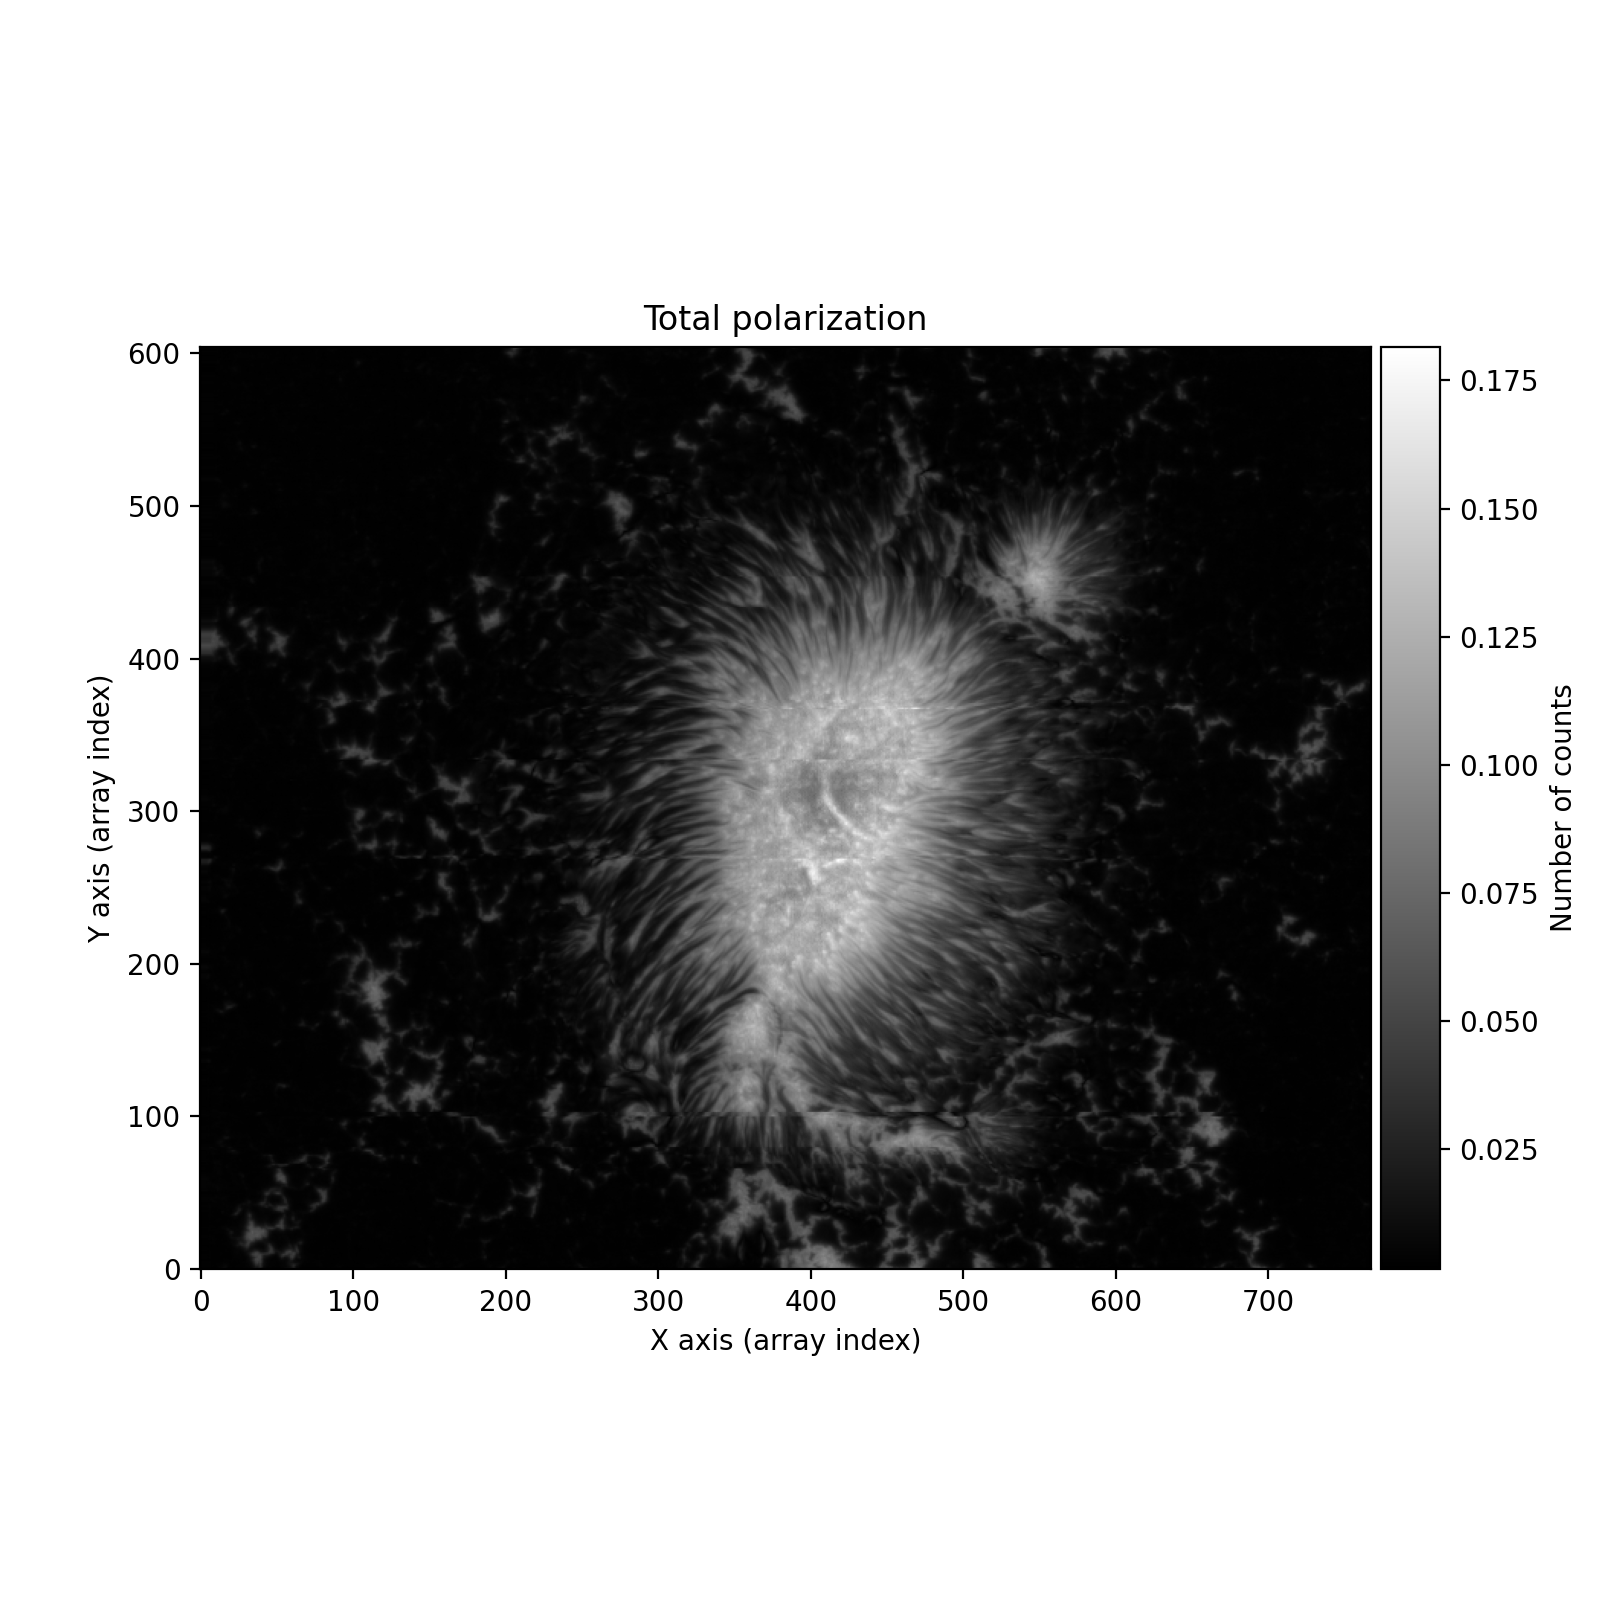
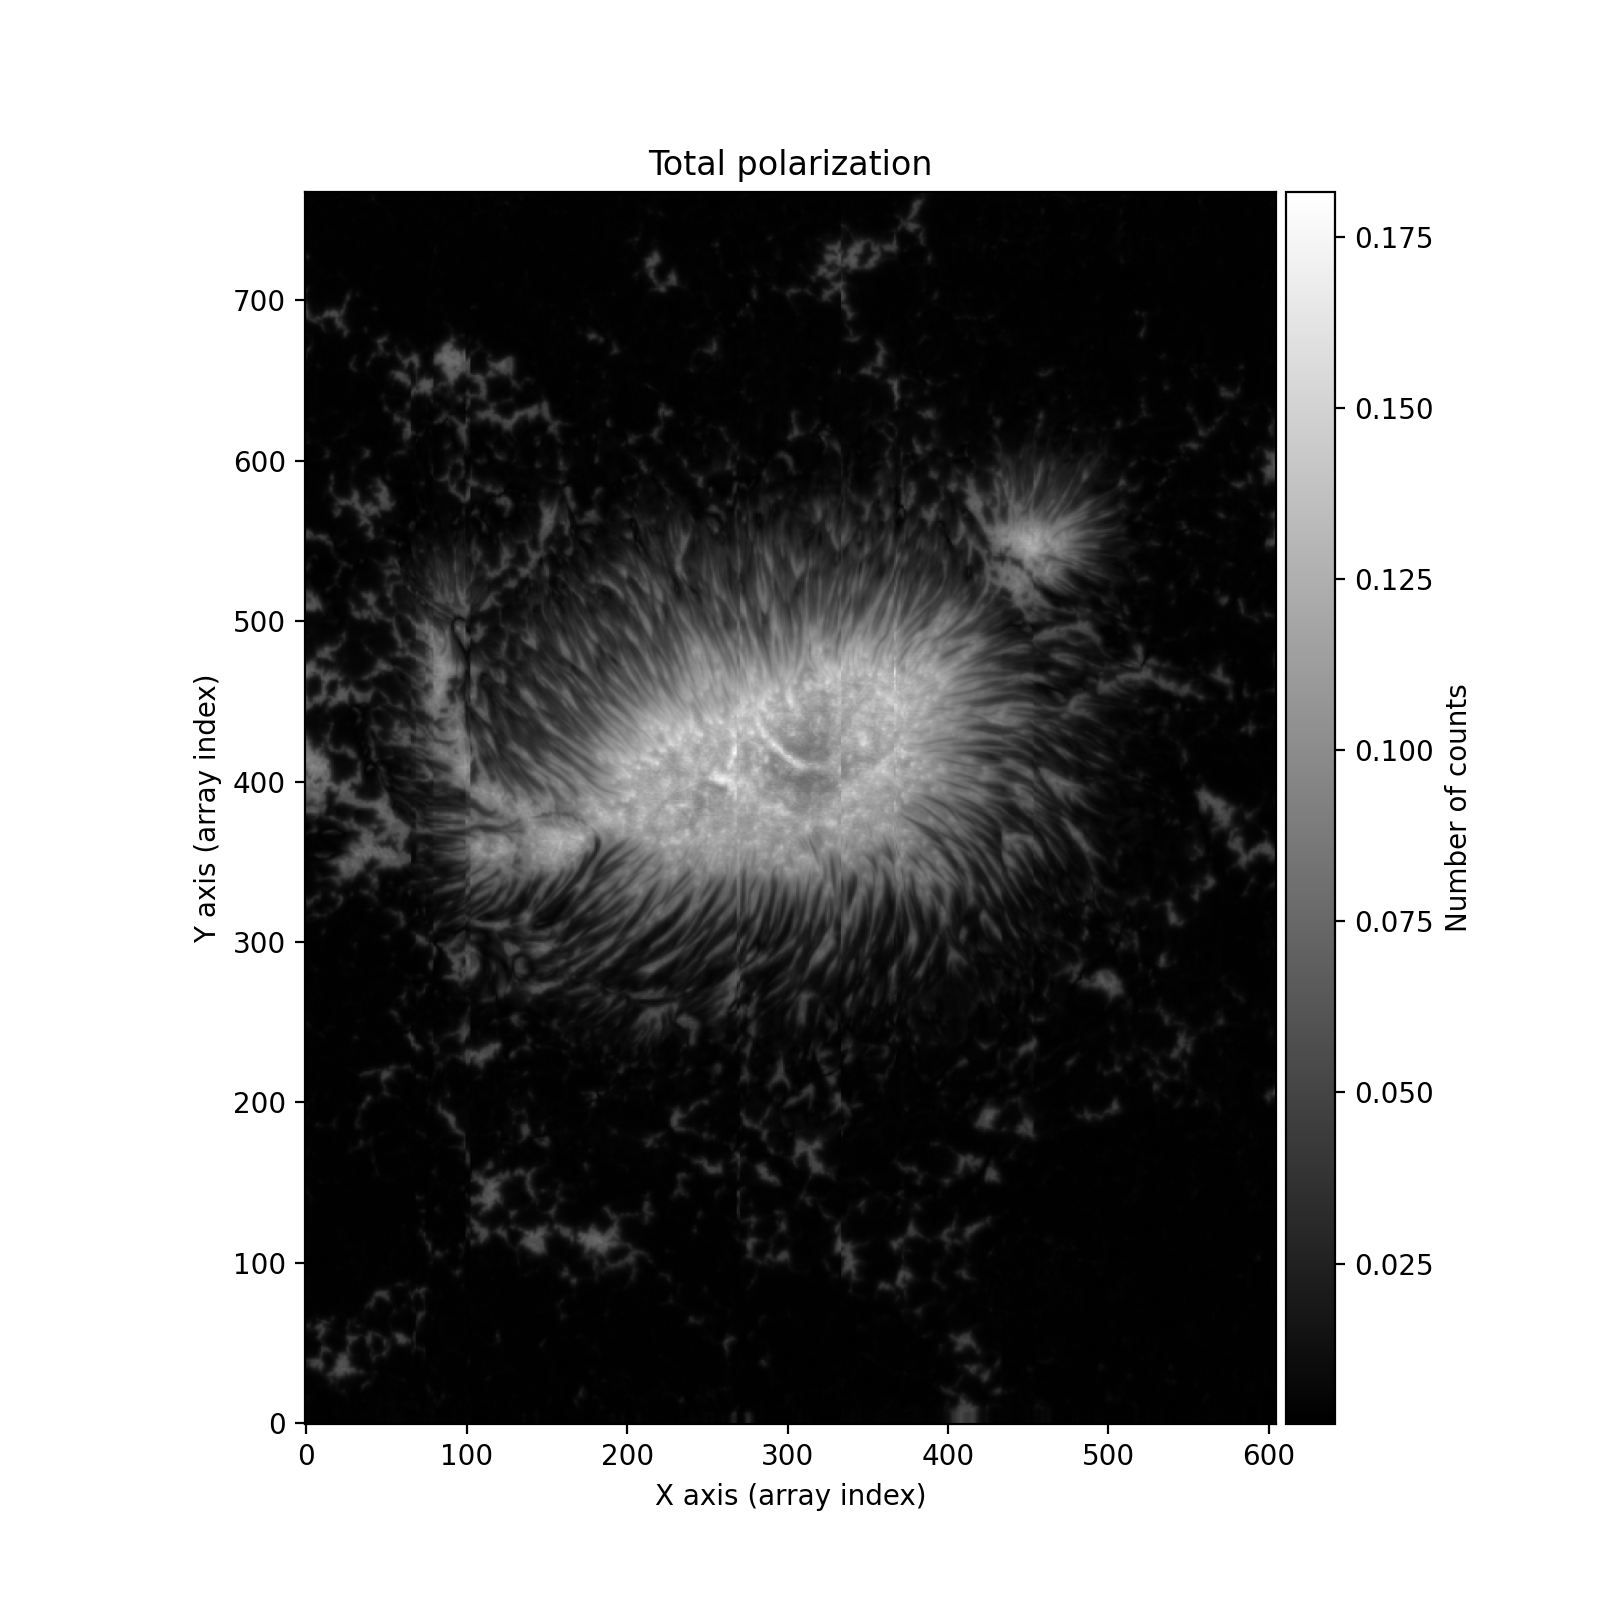
Swap x/y axes to align to sun
And add reference image from jhelioviewer

diff --git a/calibration.py b/calibration.py
@@ -27,10 +27,10 @@ print("Loading Stokes data from file", stokes_filename)
 stokes_list = pickle.load(open(stokes_filename, "rb"))
 
 # Select region of quiet sun for calibration intensity calculation
-xmin = 0
-xmax = 180
-ymin = 450
-ymax = 605
+xmin = 480
+xmax = 605
+ymin = 0
+ymax = 180
 xwidth = xmax - xmin
 ywidth = ymax - ymin
 # We want to select a region with little total polarization, since this implies a low magnetic field -> quiet sun

diff --git a/lib/Stokes.py b/lib/Stokes.py
@@ -19,7 +19,7 @@ from functions.plot_data import plot_data
 class Stokes:
     def __init__(self, name, data):
         self.name = name
-        self.data = data
+        self.data = data.swapaxes(0,1)
 
         self.size_x = self.data.shape[0]
         self.size_y = self.data.shape[1]
